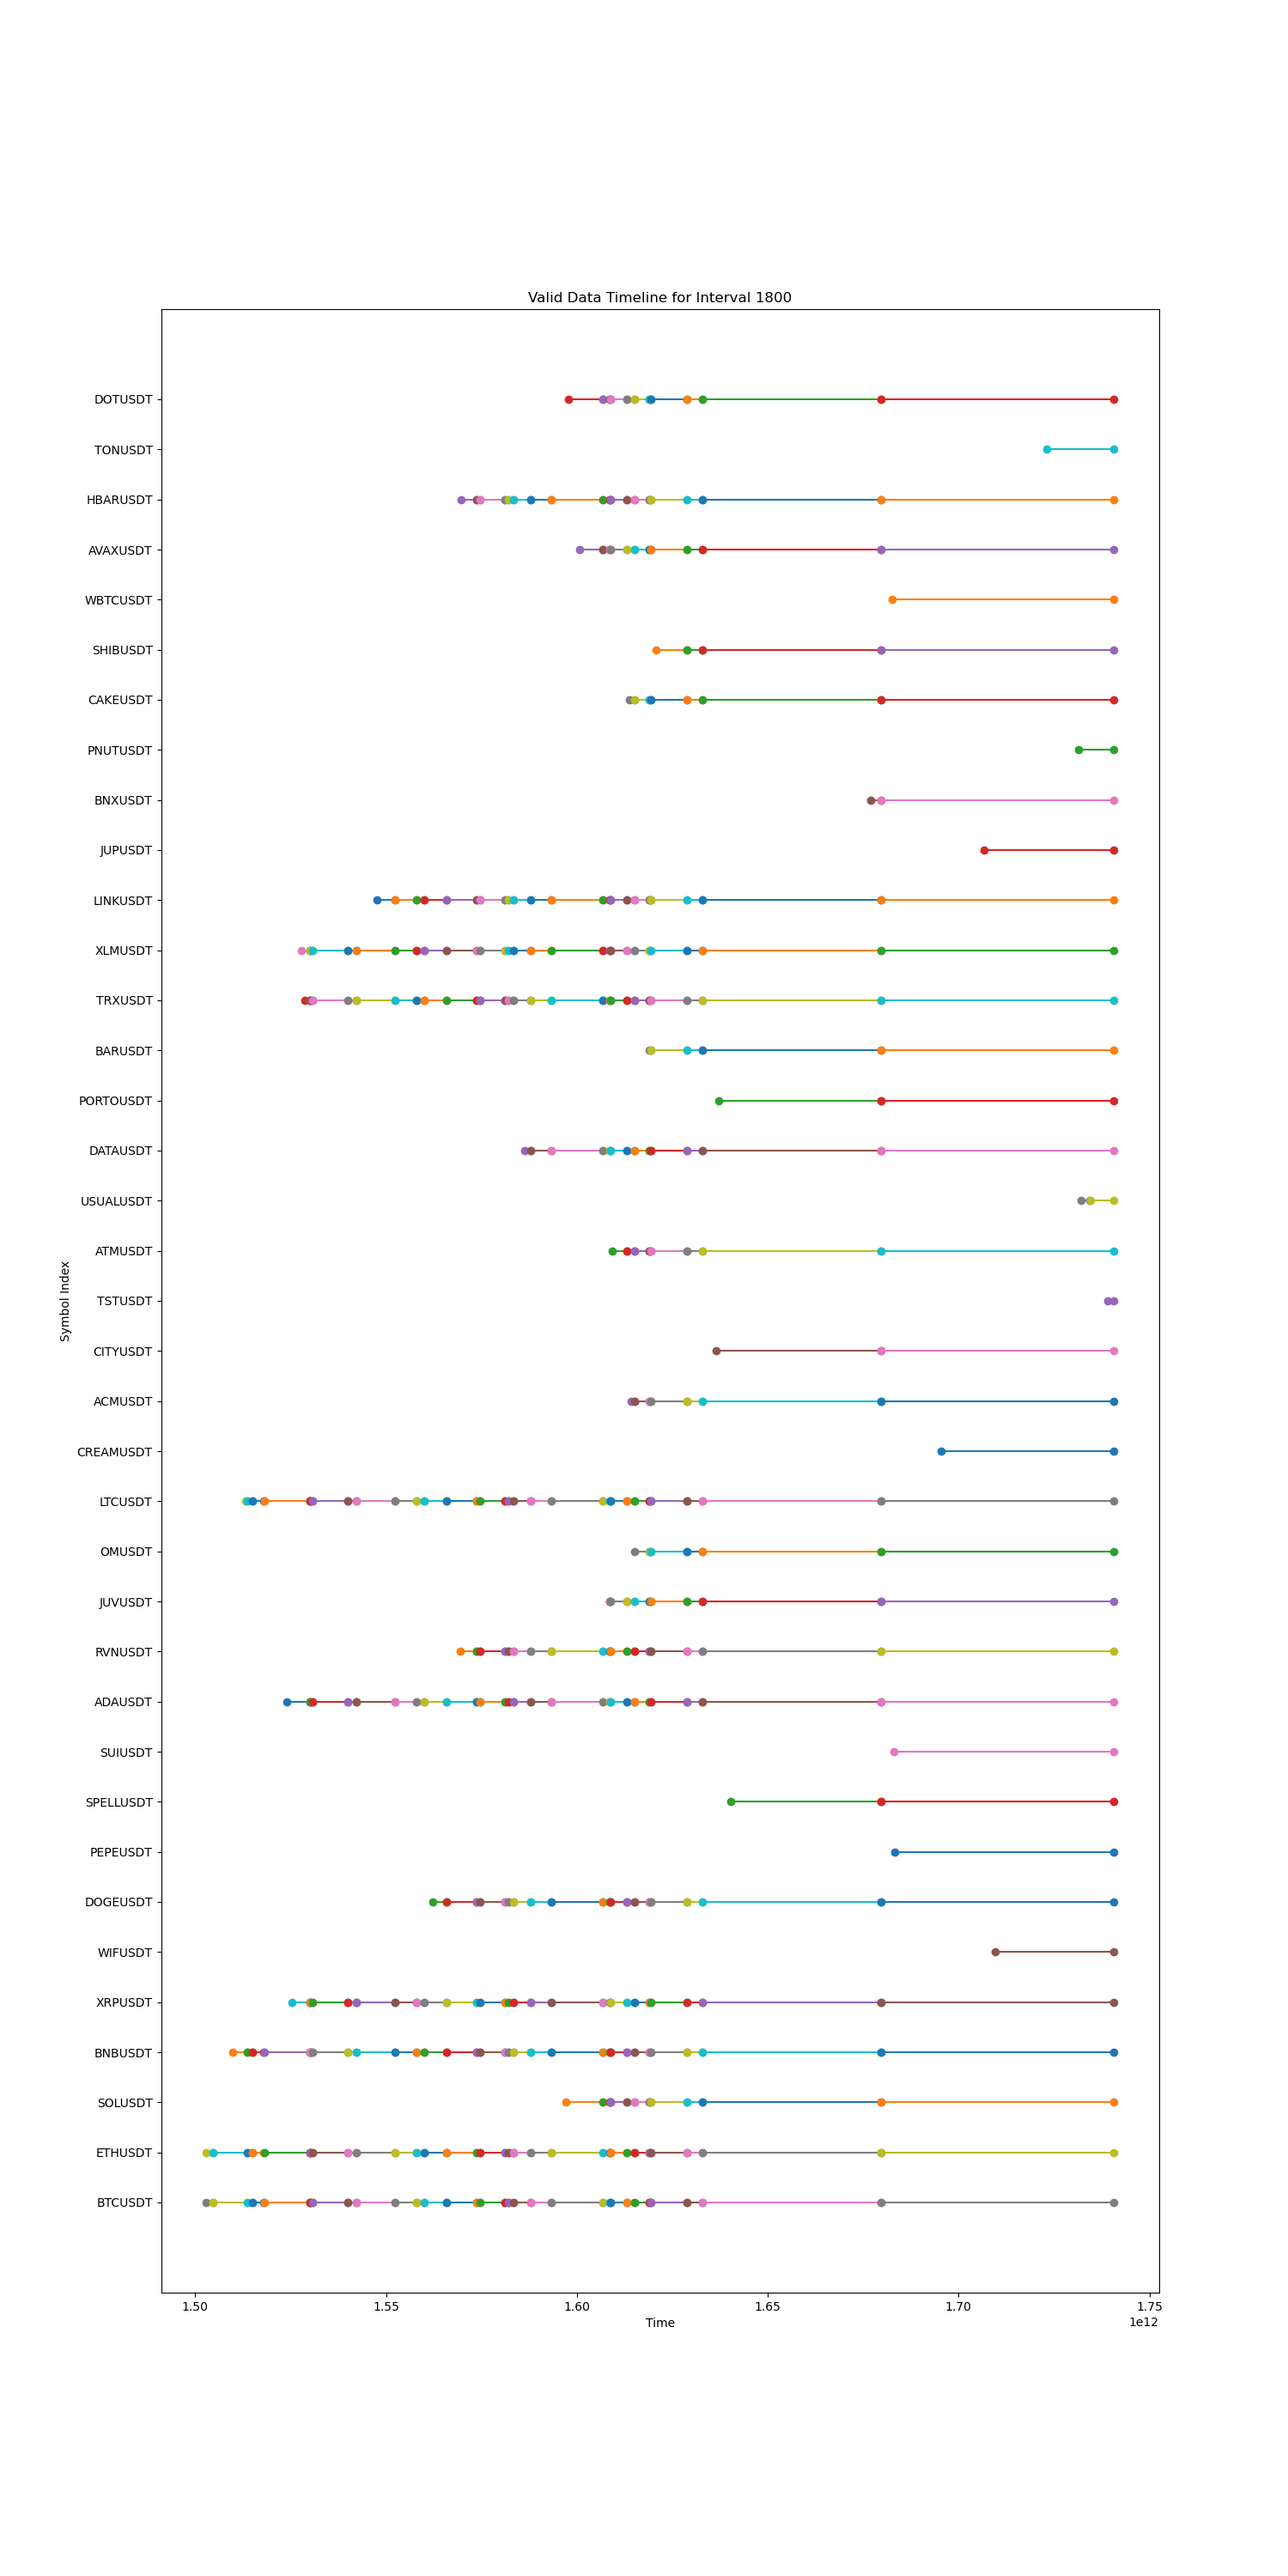
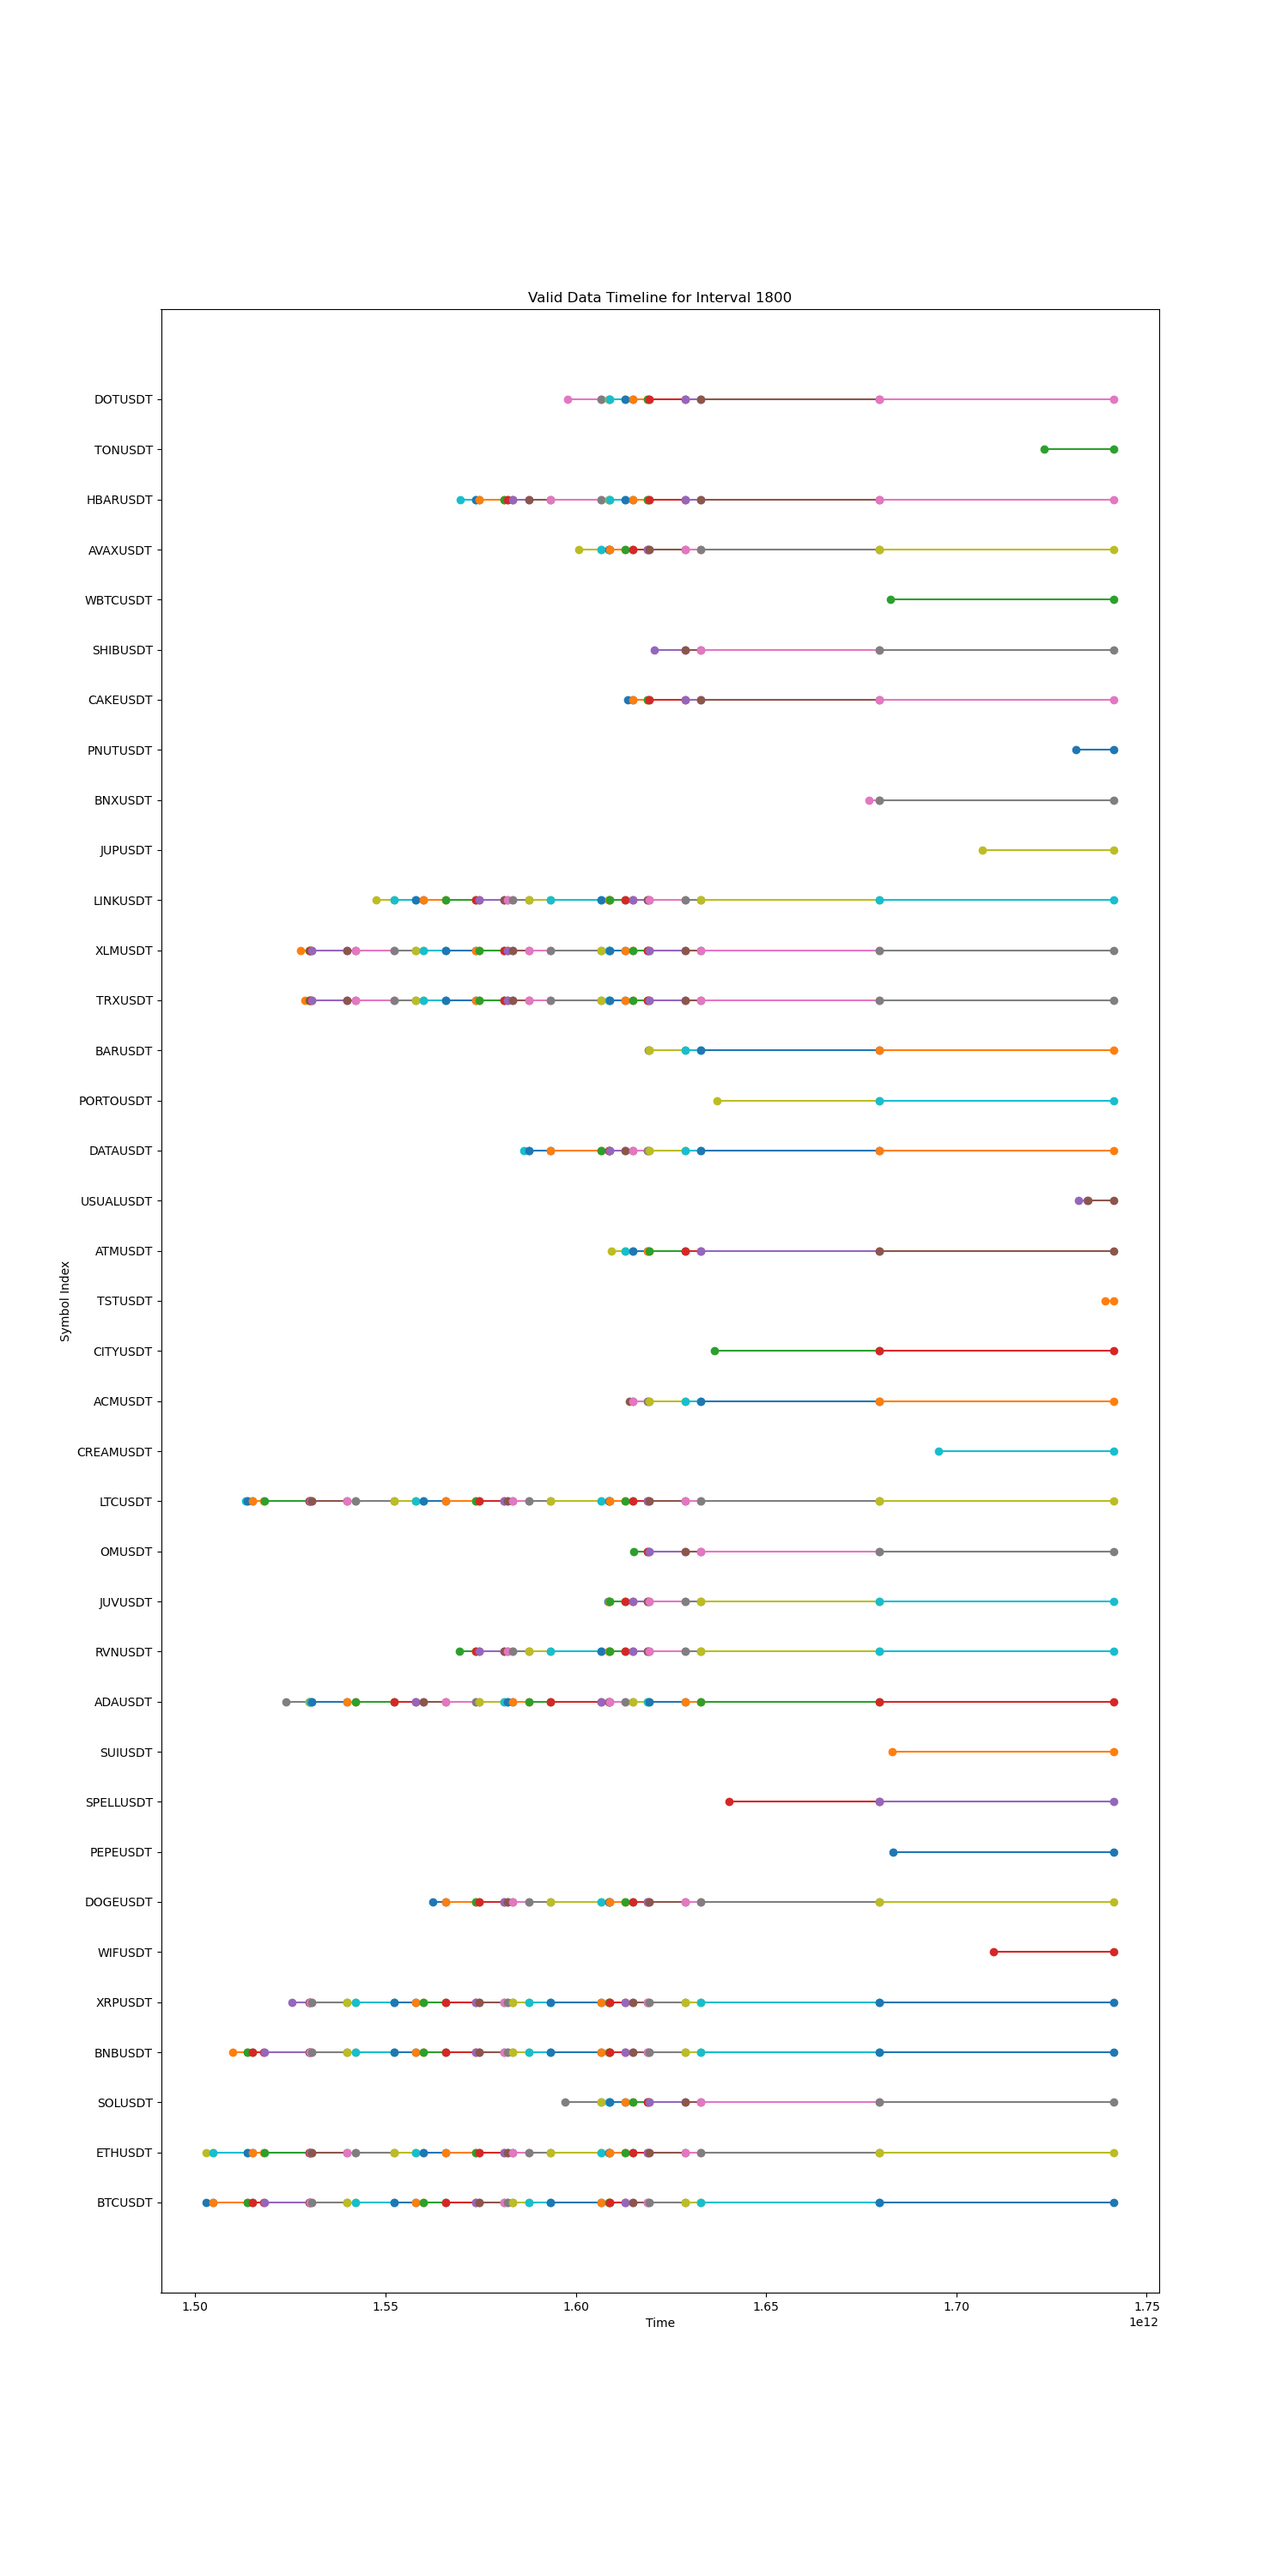
seq

diff --git a/seq_former.py b/seq_former.py
@@ -1,0 +1,184 @@
+from utils import convert_to_seconds
+from MongoEngine import ValidSeq, DBEngine
+from tqdm import tqdm
+
+# db = DBEngine(ip="10.68.34.200")
+# interval = convert_to_seconds("1s")
+# db = DBEngine(ip="192.168.101.14")
+# print(db.getMaxOpenTime("BTCUSDT", 1))
+# print(db.getLength("BTCUSDT", interval))
+# missing_intervals = db.check_continuous("BTCUSDT", 1)
+# for i in missing_intervals:
+#     continue
+# pass
+
+# # drop Person
+# personList = [
+#     Person(pid=1, name="zhangsan"),
+#     Person(pid=2, name="lisi"),
+#     Person(pid=3, name="wangwu"),
+#     Person(pid=4, name="zhaoliu"),
+# ]
+
+# personList2 = [Person(pid=2, name="lisi"), Person(pid=6, name="zhaoliu")]
+# db.insertPeople(personList)
+# db.insertPeople(personList2)
+# for person in db.getTable("Person").objects:
+#     print(person)
+
+def seqMaker(symbol, interval):
+    db = DBEngine(ip="192.168.101.14")
+    validList = []
+    # start = db.getMinOpenTime(symbol, interval)
+    # for open_time, interval_counts in db.check_continuous(symbol, interval):
+    #     # print(f"Missing {interval_counts} intervals at {open_time}")
+    #     validList.append((start, (open_time - start) // interval // 1000))
+    #     start = open_time + interval * interval_counts * 1000
+    # validList.append(
+    #     (
+    #         start,
+    #         (db.getMaxOpenTime(symbol, interval) - start) // interval // 1000,
+    #     )
+    # )
+
+    # pprint(validList)
+    # return validList  # , symbol, interval
+    valid_sequences = []
+    seq = db.getContinuousSeq(symbol, interval)
+    for time_a, time_b in seq:
+        valid_sequences.append((time_a, time_b))
+        # only update if exists (symbol, interval, time_a)
+        vseq = ValidSeq(
+            stock_name=symbol,
+            interval=interval,
+            open_time=time_a,
+            length=(time_b - time_a) // interval // 1000,
+        )
+        if db.VSeqExists(symbol, time_a, interval):
+            db.update([vseq])
+            print("update", vseq)
+        else:
+            db.insert([vseq])
+            print("insert", vseq)
+    return valid_sequences
+
+from bnspider_runner import run_spider, SYMBOL_START, TIME_GRID
+
+# from multiprocessing.pool import ThreadPool
+from multiprocessing import Pool
+
+debug = False
+missing_data = {}
+symbolList = list(SYMBOL_START.keys())#[15:18]
+timeList = TIME_GRID#[4:7]
+num_process = len(symbolList) * len(timeList)
+loop = tqdm(desc="find missing data", total=num_process)
+
+def collect_missing_data(result, sym, inter):
+    if inter not in missing_data:
+        missing_data[inter] = {}
+    if sym not in missing_data[inter]:
+        missing_data[inter][sym] = []
+    missing_data[inter][sym].extend(result)
+    loop.update()
+
+with Pool(processes=num_process) as pool:
+    for interval in timeList:
+        interval_s = convert_to_seconds(interval)
+        for symbol in symbolList:
+            if debug:
+                missing_sequences = seqMaker(
+                    # db,
+                    symbol,
+                    interval_s,
+                )
+                collect_missing_data(missing_sequences, symbol, interval_s)
+            else:
+                pool.apply_async(
+                    seqMaker,
+                    (
+                        # db,
+                        symbol,
+                        interval_s,
+                    ),
+                    callback=lambda result, sym=symbol, inter=interval_s: collect_missing_data(
+                        result, sym, inter
+                    ),
+                )
+
+    pool.close()
+    pool.join()
+loop.close()
+
+db = DBEngine(ip="192.168.101.14")
+# 绘制时间线
+import matplotlib.pyplot as plt
+
+for interval, symbols in missing_data.items():
+    plt.figure(figsize=(15, 30))
+    for symbol, valid_sequences in symbols.items():
+        # valid_sequences = []
+        start_time = db.getMinOpenTime(symbol, interval)
+        end_time = db.getMaxOpenTime(symbol, interval)
+        # current_time = start_time
+
+        # if start_time is None or end_time is None:
+        #     continue
+
+        # for missing_start, missing_count in missing_sequences:
+        #     if current_time < missing_start:
+        #         valid_sequences.append((current_time, missing_start))
+        #     current_time = missing_start + missing_count * interval * 1000
+
+        # if current_time < end_time:
+        #     valid_sequences.append((current_time, end_time))
+
+        """
+            stock_name = StringField(required=True)
+            interval = IntField(required=True)
+            open_time = IntField(required=True)
+            length = IntField(required=True)
+        """
+        # for time_a, time_b in valid_sequences:
+        #     # only update if exists (symbol, interval, time_a)
+        #     vseq = ValidSeq(
+        #         stock_name=symbol,
+        #         interval=interval,
+        #         open_time=time_a,
+        #         length=(time_b - time_a) // interval // 1000,
+        #     )
+        #     if db.VSeqExists(symbol, time_a, interval):
+        #         db.update([vseq])
+        #         print("update", vseq)
+        #     else:
+        #         db.insert([vseq])
+        #         print("insert", vseq)
+
+        # for start, end in valid_sequences:
+        #     plt.plot([start, end], [symbolList.index(symbol), symbolList.index(symbol)], label=f'{symbol} valid sequence')
+        # 提取时间点
+        times = [[start, end] for start, end in valid_sequences]
+        # times.append(end_time)  # 添加最后一个有效时间点
+
+        # 提取对应的股票索引
+        symbol_index = symbolList.index(symbol)
+        # indices = [symbol_index] * len(times)
+
+        # label = f"{symbol} valid sequence"
+        for i in times:
+            plt.plot(i, [symbol_index] * 2, marker="o", linestyle="-")
+        # # 绘制连点成线
+        # plt.plot(
+        #     times,
+        #     indices,
+        #     marker="o",
+        #     linestyle="-",
+        #     label=f"{symbol} valid sequence",
+        # )
+
+    plt.title(f"Valid Data Timeline for Interval {interval}")
+    plt.xlabel("Time")
+    plt.ylabel("Symbol Index")
+    plt.yticks(range(len(symbolList)), symbolList)
+    # plt.legend()
+    plt.savefig(f"valid_timeline_{interval}.png")

diff --git a/Mongo2csv.py b/Mongo2csv.py
@@ -125,21 +125,21 @@ if __name__ == "__main__":
     print("Intervals:", intervals)
 
     # compare with system core num
-    # NUM_PROCESSES = os.cpu_count() if len(stock_name) * len(intervals) > os.cpu_count() else len(stock_name) * len(intervals)
-    # with Pool(NUM_PROCESSES) as pool:
-    #     for stock_name in stock_names:
-    #         for interval in intervals:
-    #             pool.apply_async(
-    #                 query_and_save_to_csv,
-    #                 args=(DB_INFO, stock_name, interval, CSV_DIR / f"{stock_name}_{interval}.csv"),
-    #             )
+    NUM_PROCESSES = os.cpu_count() if len(stock_name) * len(intervals) > os.cpu_count() else len(stock_name) * len(intervals)
+    with Pool(NUM_PROCESSES) as pool:
+        for interval in intervals:
+            for stock_name in stock_names:
+                pool.apply_async(
+                    query_and_save_to_csv,
+                    args=(DB_INFO, stock_name, interval, CSV_DIR / f"{stock_name}_{interval}.csv"),
+                )
 
-    #     pool.close()
-    #     pool.join()
+        pool.close()
+        pool.join()
 
-    query_and_save_to_csv(
-        DB_INFO,
-        stock_name,
-        interval,
-        CSV_DIR / f"{stock_name}_{interval}.csv",  # 输出文件路径
-    )
+    # query_and_save_to_csv(
+    #     DB_INFO,
+    #     stock_name,
+    #     interval,
+    #     CSV_DIR / f"{stock_name}_{interval}.csv",  # 输出文件路径
+    # )
